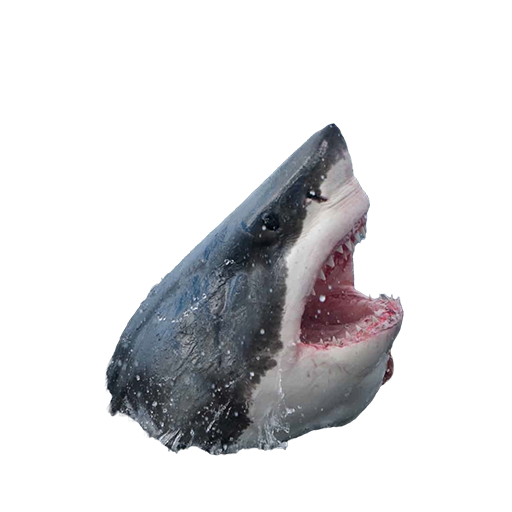
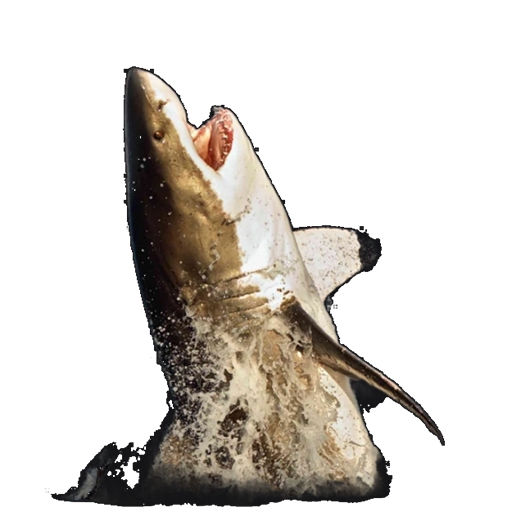
shark(WIP)

diff --git a/core/src/main/java/com/bouncefish/entities/Shark.java b/core/src/main/java/com/bouncefish/entities/Shark.java
@@ -1,0 +1,132 @@
+package com.bouncefish.entities;
+
+import com.badlogic.gdx.Gdx;
+import com.badlogic.gdx.graphics.Texture;
+import com.badlogic.gdx.graphics.g2d.Animation;
+import com.badlogic.gdx.graphics.g2d.TextureRegion;
+import com.bouncefish.utils.GameConstants;
+
+import com.badlogic.gdx.math.Rectangle;
+import java.util.function.Consumer;
+
+public class Shark extends Creature{
+    private static Animation<TextureRegion> sharkAnimationSwim;
+    private static Animation<TextureRegion> sharkAnimationAttack;
+    //private Rectangle attackBounds;
+    private boolean readyToAttack = true;
+    private boolean attacking;
+    private boolean coolDown; //needs to cooldown after attacking
+    private int attackCooldownCounter = GameConstants.SHARK_ATK_COOLDOWN;//ready to attack when the counter is 0
+    public Shark(float spawnTime, float spawnX, Consumer<Creature> movementFunction) {
+        creatureId = 5;
+        xVelocity = 0;
+        yVelocity = 0;
+        width = 260;
+        height = 260;
+        movementSpeed = 10;
+
+        this.xPosition = spawnX;
+        this.yPosition = GameConstants.Screen_Height/2;
+        this.movementSpeedMultiplier = 1;
+        this.movementFunction = movementFunction;
+        this.spawnTime = spawnTime;
+
+        setBounds();
+    }
+    private void updateAttackBounds(){
+        if(readyToAttack){
+            bounds.setX((int)getX() - GameConstants.SHARK_DECTECTION_WIDTH);
+            bounds.setY((int)getY() - GameConstants.SHARK_DECTECTION_HEIGHT);
+        } else{
+            bounds.setX((int)getX());
+            bounds.setY((int)getY());
+        }
+
+    }
+    public static void leftToRight(Creature creature){
+        creature.xPosition += creature.movementSpeed * creature.movementSpeedMultiplier * Gdx.graphics.getDeltaTime();
+    }
+
+    public static void rightToLeft(Creature creature){
+        creature.xPosition -= creature.movementSpeed * creature.movementSpeedMultiplier * Gdx.graphics.getDeltaTime();
+    }
+    public static void initAnime(){
+        Texture texture1 = new Texture("s1.png");
+        Texture texture2 = new Texture("s2.png");
+        TextureRegion[] frames1 = new TextureRegion[1];
+        TextureRegion[] frames2 = new TextureRegion[1];
+        frames1[0] = new TextureRegion(texture1);
+        frames2[0] = new TextureRegion(texture2);
+        sharkAnimationSwim = new Animation<>(0.5F,frames1);
+        sharkAnimationAttack = new Animation<>(0.5F,frames2);
+    }
+    public boolean isReadyToAttack(){
+        return readyToAttack;
+    }
+    public boolean isAttacking(){
+        return attacking;
+    }
+    public boolean isInCoolDown(){
+        return coolDown;
+    }
+    @Override
+    public void setBounds(){
+
+        if(readyToAttack){//the shark is looking for the bouncefish
+            bounds = new Rectangle(
+                (int)(getX() - GameConstants.SHARK_DECTECTION_WIDTH),
+                (int)(getY() - GameConstants.SHARK_DECTECTION_HEIGHT),
+                GameConstants.SHARK_DECTECTION_WIDTH*2, GameConstants.SHARK_DECTECTION_HEIGHT*2);
+        }else if(attacking){ //the shark is jumping up
+            bounds = new Rectangle((int)getX() + width, (int)getY() + height, height, width);
+        }else{//the shark is in the water(and cooling down)
+            bounds = new Rectangle((int)getX(), (int)getY(),
+                getWidth(), getHeight());
+        }
+    }
+    @Override
+    public void handleTimeStep(){
+        stateTime += Gdx.graphics.getDeltaTime();
+        applyMovement();
+        updateBounds();
+        updateAttackBounds();
+        if(coolDown && --attackCooldownCounter <= 0){
+            readyToAttack = true;
+            coolDown = false;
+            setBounds();//the shark is looking for the bouncefish
+        }
+    }
+    public void attack(){
+            attacking = true;
+            readyToAttack = false;
+            setBounds(); //the shark is jumping up
+            setXVelocity(0);
+            setYVelocity(10);
+    }
+    public void attackingMovement(){
+        yPosition += yVelocity * Gdx.graphics.getDeltaTime();
+        if(yVelocity > 0){
+            if(yPosition >= GameConstants.SHARK_JUMP_HEIGHT){
+                yVelocity = -yVelocity;//make the transition smooth?
+            }
+        }else {
+            if(yPosition <= GameConstants.WATER_LEVEL){
+                setY(GameConstants.WATER_LEVEL);
+                attacking = false; //the attack ends when the shark is back in water
+                coolDown = true;
+                attackCooldownCounter = GameConstants.SHARK_ATK_COOLDOWN;
+                setBounds();//the shark is in the water(and cooling down)
+            }
+        }
+    }
+
+    @Override
+    public void handleBouncedOn() {
+
+    }
+
+    @Override
+    public TextureRegion getAnimeFrame() {
+        return null;
+    }
+}

diff --git a/core/src/main/java/com/bouncefish/entities/OceanSunfish.java b/core/src/main/java/com/bouncefish/entities/OceanSunfish.java
@@ -18,8 +18,8 @@ public class OceanSunfish extends Creature {
         creatureId = 3;
         xVelocity = 0;
         yVelocity = 0;
-        width = 130;
-        height = 130;
+        width = 260;
+        height = 260;
         movementSpeed = 12;
 
         this.xPosition = spawnX;
@@ -48,8 +48,14 @@ public class OceanSunfish extends Creature {
     }
     @Override
     public void setBounds(){
-        bounds = new Rectangle((int)getX(), (int)getY(),
-            GameConstants.OCEANSUNFISH_WIDTH, GameConstants.BOUNCEFISH_HEIGHT);
+        if(isBouncable){
+            bounds = new Rectangle((int)getX(), (int)getY(),
+                130, 130);
+        }else{
+            bounds = new Rectangle((int)getX(), (int)getY(),
+                260, 260);
+        }
+
     }
     public static void OceanSunfishMovementLeftToRight(Creature creature){
         creature.xPosition += creature.movementSpeed;
@@ -82,6 +88,7 @@ public class OceanSunfish extends Creature {
             //TODO play flipping animation
             isBouncable = true;
         }
+        setBounds();
         flipCounter = 100;
 
     }

diff --git a/core/src/main/java/com/bouncefish/entities/BounceFish.java b/core/src/main/java/com/bouncefish/entities/BounceFish.java
@@ -97,7 +97,14 @@ public class BounceFish extends Creature {
         //If fish touches any creature, Fish gets placed on top of creature and bounces upward.
         //Like Mario jumping on Enemy
         for (Creature creature : creatureList) {
-            if(this.bounds.overlaps(creature.bounds) && creature.isBouncable()){
+            if(creature.getCreatureId() == 5){//shark!
+                if(this.bounds.overlaps(creature.bounds)){
+                    if(((Shark) creature).isReadyToAttack()){ //I remembered from somewhere that casting is not elegant... But what else can I do?
+                        ((Shark) creature).attack();
+                    }
+                }
+            }
+            else if(this.bounds.overlaps(creature.bounds) && creature.isBouncable()){
 
                 if(creature.getCreatureId() == 2){//touches jellyfish
                     isParalyzed = true;

diff --git a/core/src/main/java/com/bouncefish/utils/GameConstants.java b/core/src/main/java/com/bouncefish/utils/GameConstants.java
@@ -35,6 +35,10 @@ public final class GameConstants {
     public static int WATER_LEVEL = 100; //the height of water level in pixel unit
     public static int OCEANSUNFISH_HEIGHT = 42;
     public static int OCEANSUNFISH_WIDTH = 100;
+    public static int SHARK_DECTECTION_WIDTH = 200;//attacks if bouncefish fall into this range
+    public static int SHARK_DECTECTION_HEIGHT = 400;
+    public static int SHARK_JUMP_HEIGHT = 600;//WATER_LEVEL + SHARK_DECTECTION_HEIGHT;
+    public static int SHARK_ATK_COOLDOWN = 500;
 
     //public static float jellyFishFrameDuration = 0.5F;
     //public static float crabFrameDuration = 0.5F;

diff --git a/core/src/main/java/com/bouncefish/entities/Crab.java b/core/src/main/java/com/bouncefish/entities/Crab.java
@@ -36,12 +36,12 @@ public class Crab extends Creature {
         setBounds();
     }
 
-    public static void leftToRight(Creature creature){//TODO implement curly movement
+    public static void leftToRight(Creature creature){
         creature.xPosition += creature.movementSpeed * creature.movementSpeedMultiplier * Gdx.graphics.getDeltaTime();
     }
 
 
-    public static void rightToLeft(Creature creature){//TODO implement curly movement
+    public static void rightToLeft(Creature creature){
         creature.xPosition -= creature.movementSpeed * creature.movementSpeedMultiplier * Gdx.graphics.getDeltaTime();
     }
 
